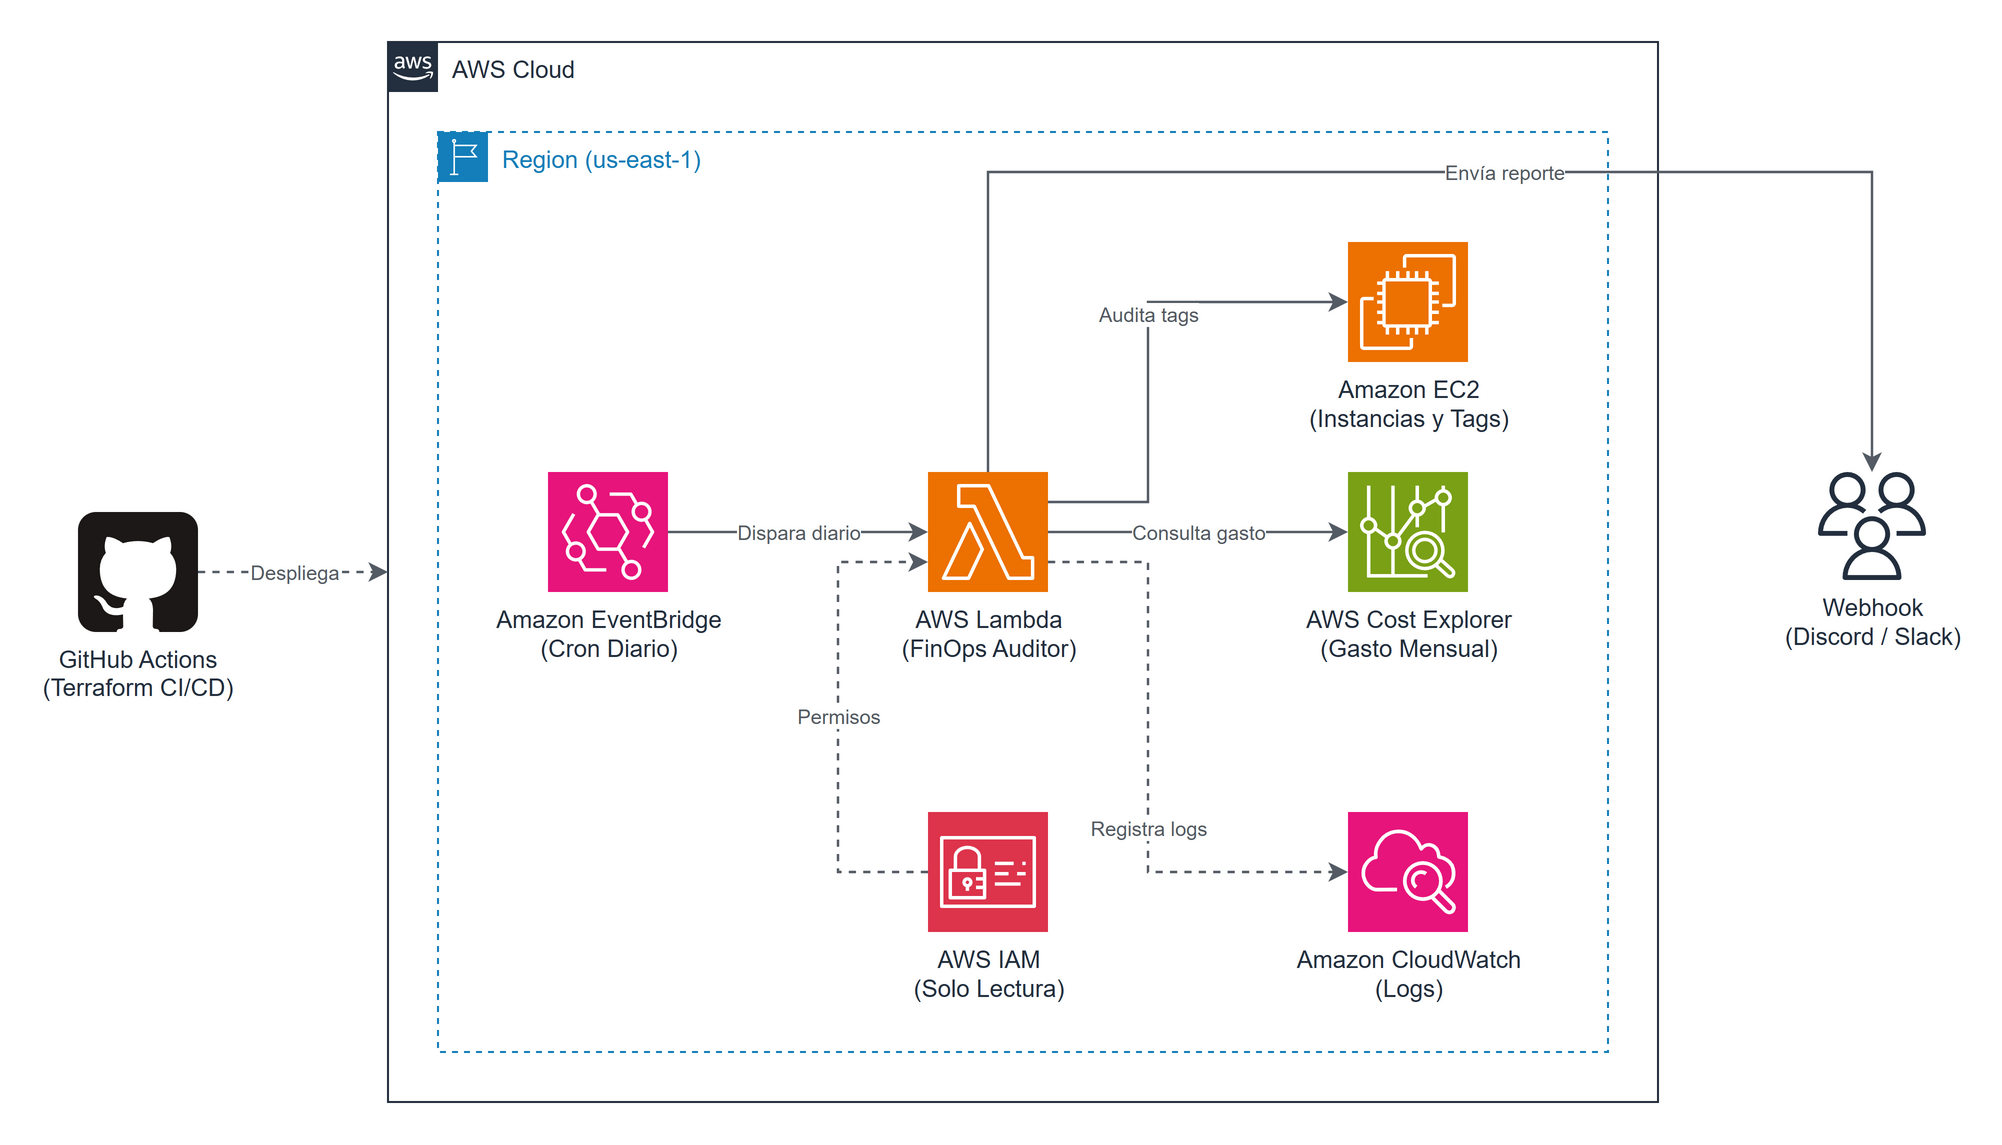
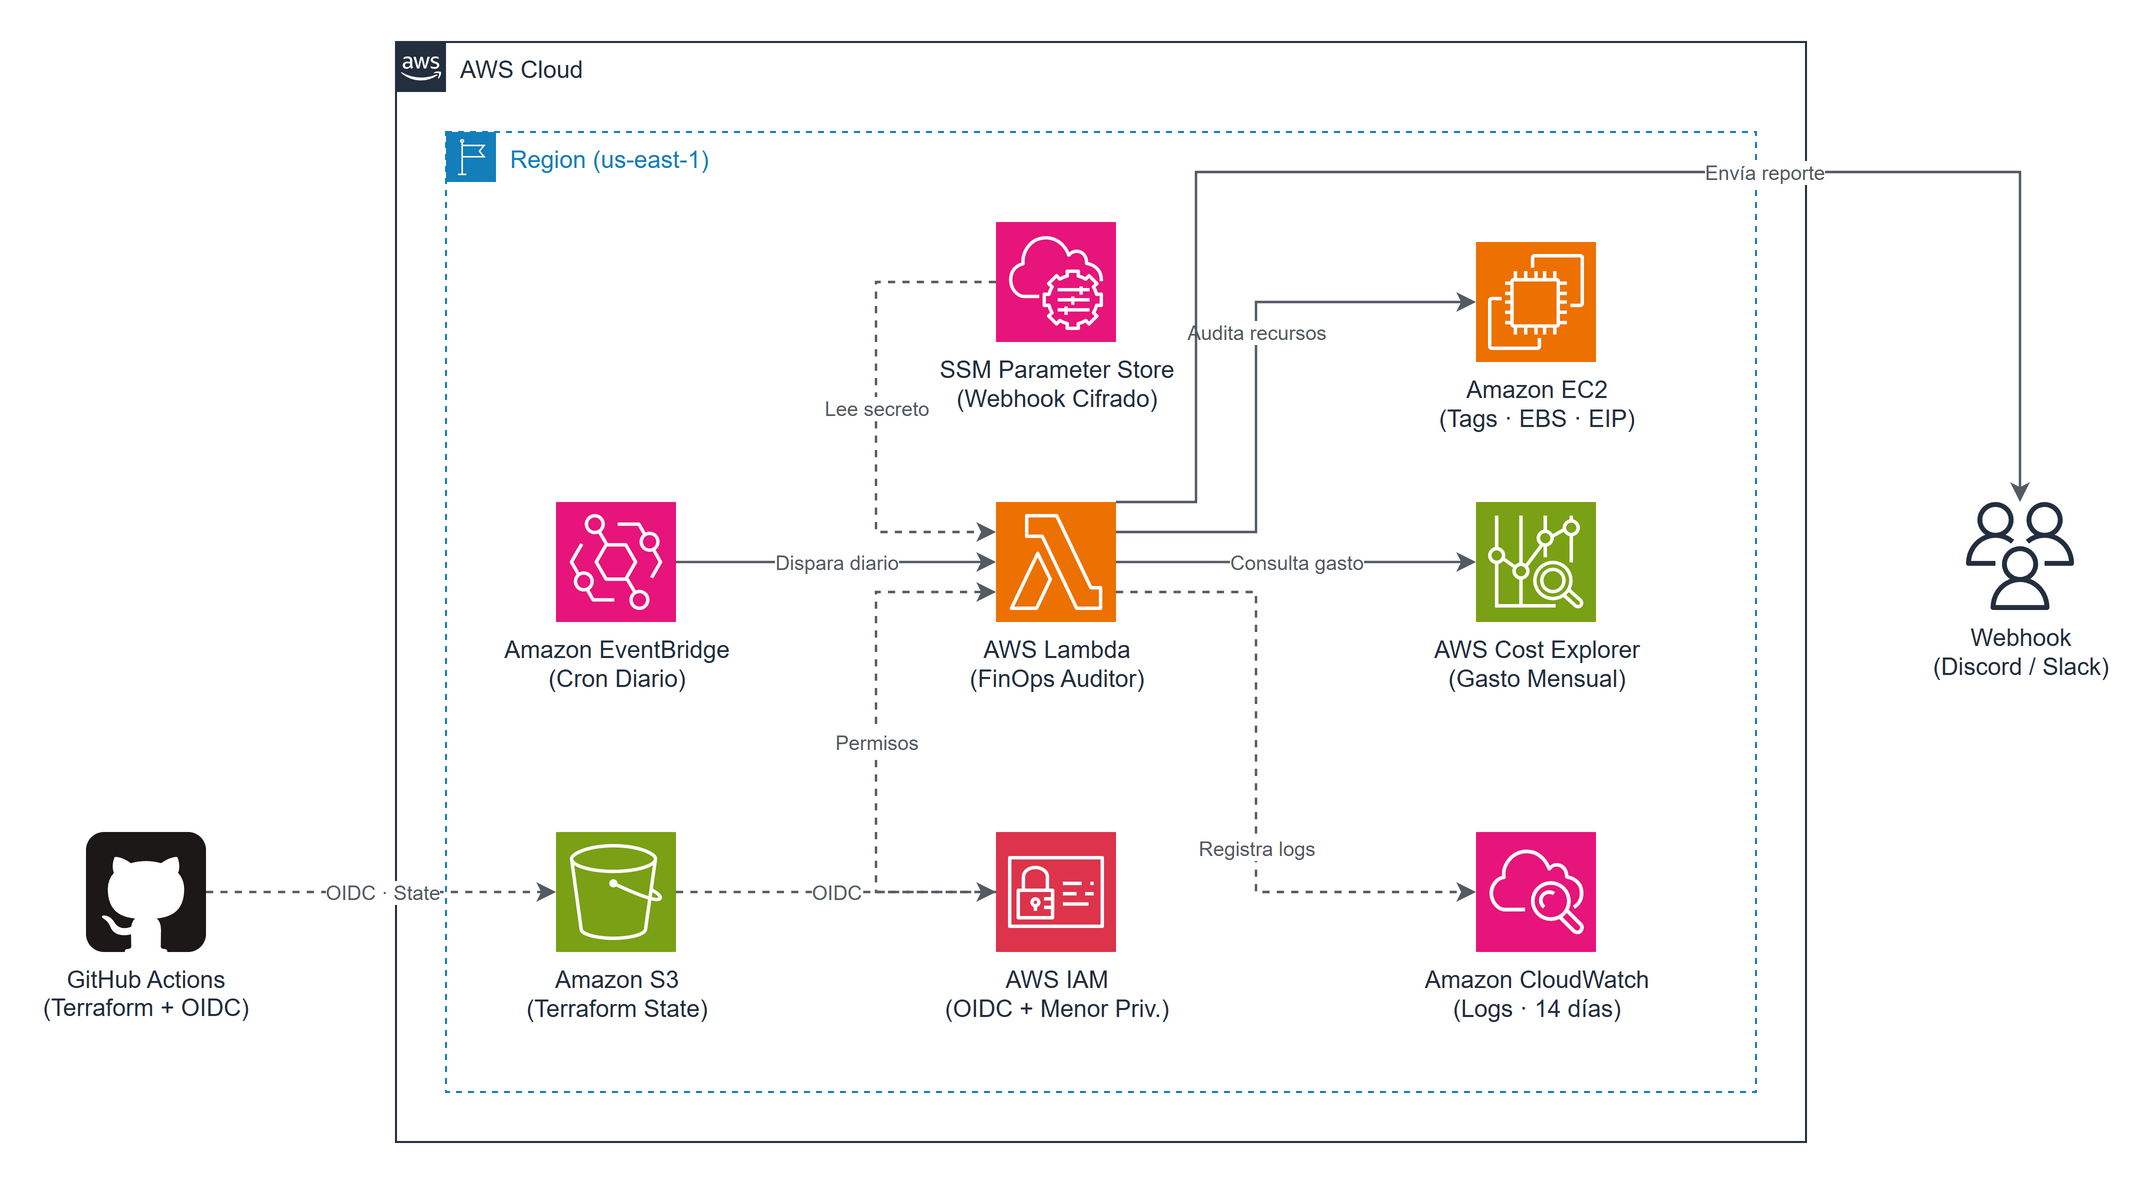
Actualizar diagrama y descripcion de AWS FinOps Auditor

diff --git a/index.html b/index.html
@@ -344,7 +344,7 @@
                         <img class="arch-diagram-img" src="./assets/img/diagrams/aws-finops-auditor.png" alt="Diagrama de arquitectura AWS FinOps Auditor" loading="lazy">
                         <div class="project-hover-panel">
                             <p class="project-description">
-                                Microservicio serverless para gobierno de nube y control de costos en AWS. Se ejecuta diariamente mediante EventBridge, detecta instancias EC2 sin etiquetas obligatorias, consulta el gasto acumulado del mes y envía alertas estructuradas vía webhook. Infraestructura desplegada con Terraform y GitHub Actions.
+                                Microservicio serverless para gobierno de nube y control de costos en AWS. Se ejecuta diariamente mediante EventBridge, audita instancias EC2 sin etiquetas obligatorias, volúmenes EBS huérfanos, Elastic IPs sin asociar y el gasto acumulado en Cost Explorer, enviando alertas vía webhook cifrado en SSM Parameter Store. Desplegado con Terraform (Remote State en S3) y GitHub Actions con IAM OIDC.
                             </p>
                             <div class="project-links">
                                 <a href="https://github.com/VitoNez5198/aws-finops-auditor" target="_blank" rel="noopener" class="btn-link">
